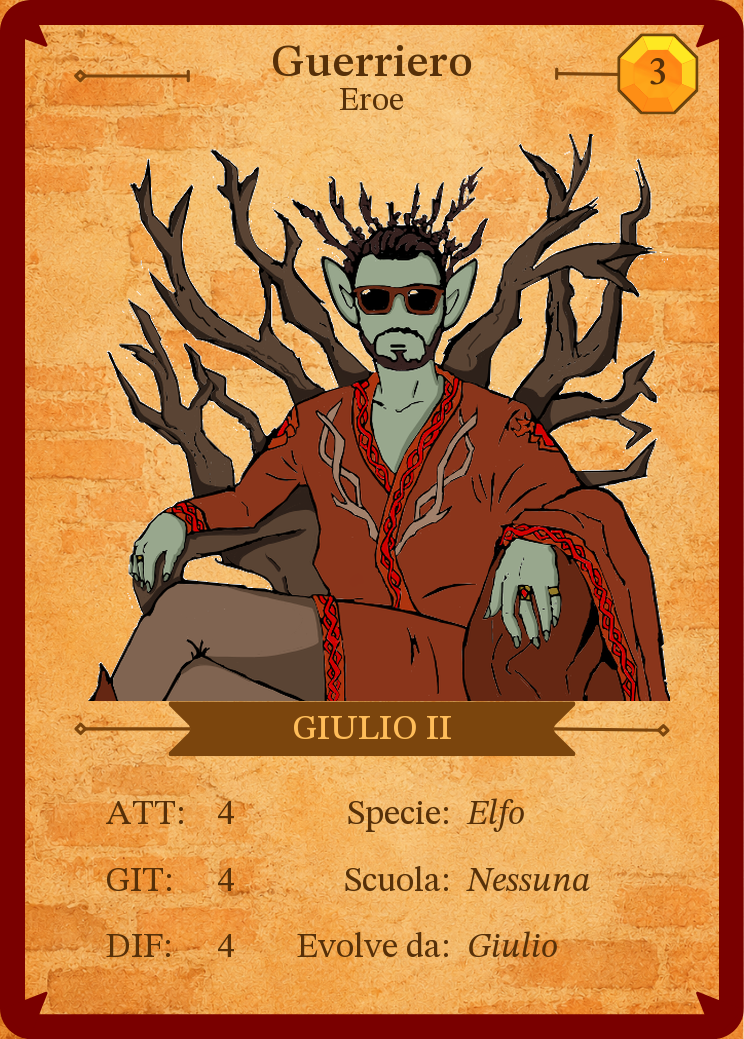
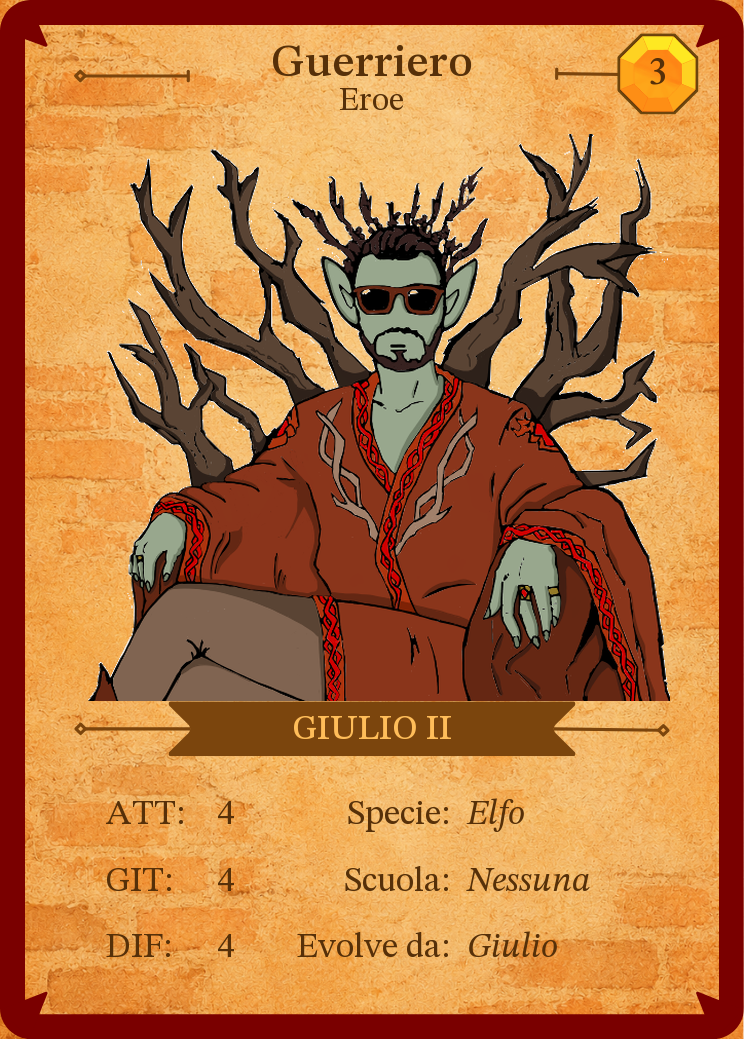
Added final step to card factory

diff --git a/card_factory/4_make_print_pdf.py b/card_factory/4_make_print_pdf.py
@@ -1,0 +1,66 @@
+#!/usr/bin/env python3
+"""
+4_make_print_pdf.py
+
+Nessun argomento: legge tutti i PNG in output/, e per ognuno crea una coppia
+di pagine (back, carta) con un bordo monocromo di 3mm su tutti i lati (dello
+stesso colore del bordo della carta, estratto dal pixel più a sinistra in
+centro verticale). Salva il PDF risultante in output/cards_to_print.pdf.
+"""
+
+import glob
+import io
+import os
+
+import fitz  # PyMuPDF
+from PIL import Image, ImageOps
+
+DPI = 300
+BORDER_MM = 3
+BORDER_PX = round(BORDER_MM / 25.4 * DPI)
+
+BACK_PATH = "assets/templates/back.png"
+OUTPUT_DIR = "output"
+OUTPUT_PDF = os.path.join(OUTPUT_DIR, "cards_to_print.pdf")
+
+
+def add_border(im: Image.Image) -> Image.Image:
+    w, h = im.size
+    color = im.getpixel((0, h // 2))
+    return ImageOps.expand(im, border=BORDER_PX, fill=color)
+
+
+def build_pdf(pages, output_path):
+    doc = fitz.open()
+    for path in pages:
+        with Image.open(path).convert("RGB") as im:
+            page_im = add_border(im)
+
+        w_px, h_px = page_im.size
+        w_pt, h_pt = w_px * 72 / DPI, h_px * 72 / DPI
+
+        buf = io.BytesIO()
+        page_im.save(buf, format="PNG")
+
+        page = doc.new_page(width=w_pt, height=h_pt)
+        page.insert_image(fitz.Rect(0, 0, w_pt, h_pt), stream=buf.getvalue())
+
+    doc.save(output_path)
+
+
+def main():
+    card_paths = sorted(
+        p for p in glob.glob(os.path.join(OUTPUT_DIR, "*.png"))
+    )
+
+    pages = []
+    for card_path in card_paths:
+        pages.append(BACK_PATH)
+        pages.append(card_path)
+
+    build_pdf(pages, OUTPUT_PDF)
+    print(f"Salvate {len(card_paths)} carte ({len(pages)} pagine totali) in {OUTPUT_PDF}")
+
+
+if __name__ == "__main__":
+    main()

diff --git a/card_factory/README.md b/card_factory/README.md
@@ -71,6 +71,16 @@ Le carte senza illustrazione corrispondente in `images/` vengono comunque genera
 
 ---
 
+### Step 4 — Genera il PDF di stampa
+
+```bash
+python 4_make_print_pdf.py
+```
+
+Nessun argomento: legge tutti i PNG in `output/`, e per ognuno crea una coppia di pagine — back, carta — con un bordo monocromo di 3mm su tutti i lati (estratto dal pixel più a sinistra in centro verticale, per simulare il bordo di taglio). Salva il risultato in `output/cards_to_print.pdf`.
+
+---
+
 ## Output
 
 I PNG in `output/` sono già referenziati dal frontend di Barbacane. Una volta rigenerati basta sostituire i file nella stessa cartella; non serve toccare altro.